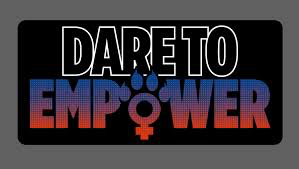
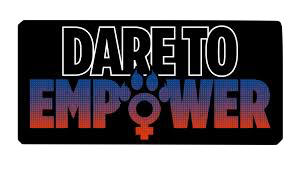
Clean up with images and fixing signup

diff --git a/App.js b/App.js
@@ -1,6 +1,7 @@
 import React, {Component} from 'react';
 import { StyleSheet, Text, View, Image,TouchableOpacity,TextInput,Alert,Linking,Button,SafeAreaView, ScrollView,Dimensions } from 'react-native';
 import * as Font from 'expo-font'
+import Unknown3 from './assets/dteimage.png';
 import Firebase from './components/firebase.js'
 import 'react-native-gesture-handler';
 import { createAppContainer, createSwitchNavigator, } from 'react-navigation';
@@ -45,6 +46,7 @@ class HomeScreen extends React.Component{
              height:"100%",
            }}
            />
+           <Image source ={Unknown3} style={styles.logo} />
            <TouchableOpacity
       onPress={() =>
           navigate('Login')
@@ -285,6 +287,7 @@ class Signup extends React.Component{
              height:"100%",
            }}
            />
+           <Image source ={Unknown3} style={styles.NHSlogo} />
 
 
   <View style = {styles.inputView}>
@@ -402,6 +405,7 @@ password:'',
              height:"100%",
            }}
            />
+              <Image source ={Unknown3} style={styles.logo} />
          <View style={styles.inputView} >
          <TextInput
            style={styles.inputText}
@@ -431,9 +435,10 @@ password:'',
                <TouchableOpacity
                style = {styles.signUpStyle3}
                onPress = {() =>
+                 Firebase.auth().signInWithEmailAndPassword(this.state.email, this.state.password).catch(function(error){alert("There has been an issue logging in. Please check that all details were entered correctly. ") }).then(() =>
                     Firebase.database().ref('/users/' + Firebase.auth().currentUser.uid + '/username').once('value', function(snapshot) {
                             please = (snapshot.val())
-}).then(() =>     navigate("Dashboard"))
+})).then(() =>     navigate("Dashboard"))
 
 
 
@@ -703,10 +708,10 @@ const styles = StyleSheet.create({
   justifyContent: 'center',
 },
 logo:{
-  height:170,
-  width:175,
+  height:"20%",
+  width:"63%",
   position:'absolute',
-  top: "3%",
+  top: "13%",
 borderColor:'#4169e1'
 
 },
@@ -717,9 +722,9 @@ intromessage:{
 },
 NHSlogo:{
   height:"15.1%",
-  width:"33.2%",
+  width:"48.2%",
   position:'absolute',
-  top:"26.5%",
+  top:"6.5%",
 
 },
 NHSlogo2:{
